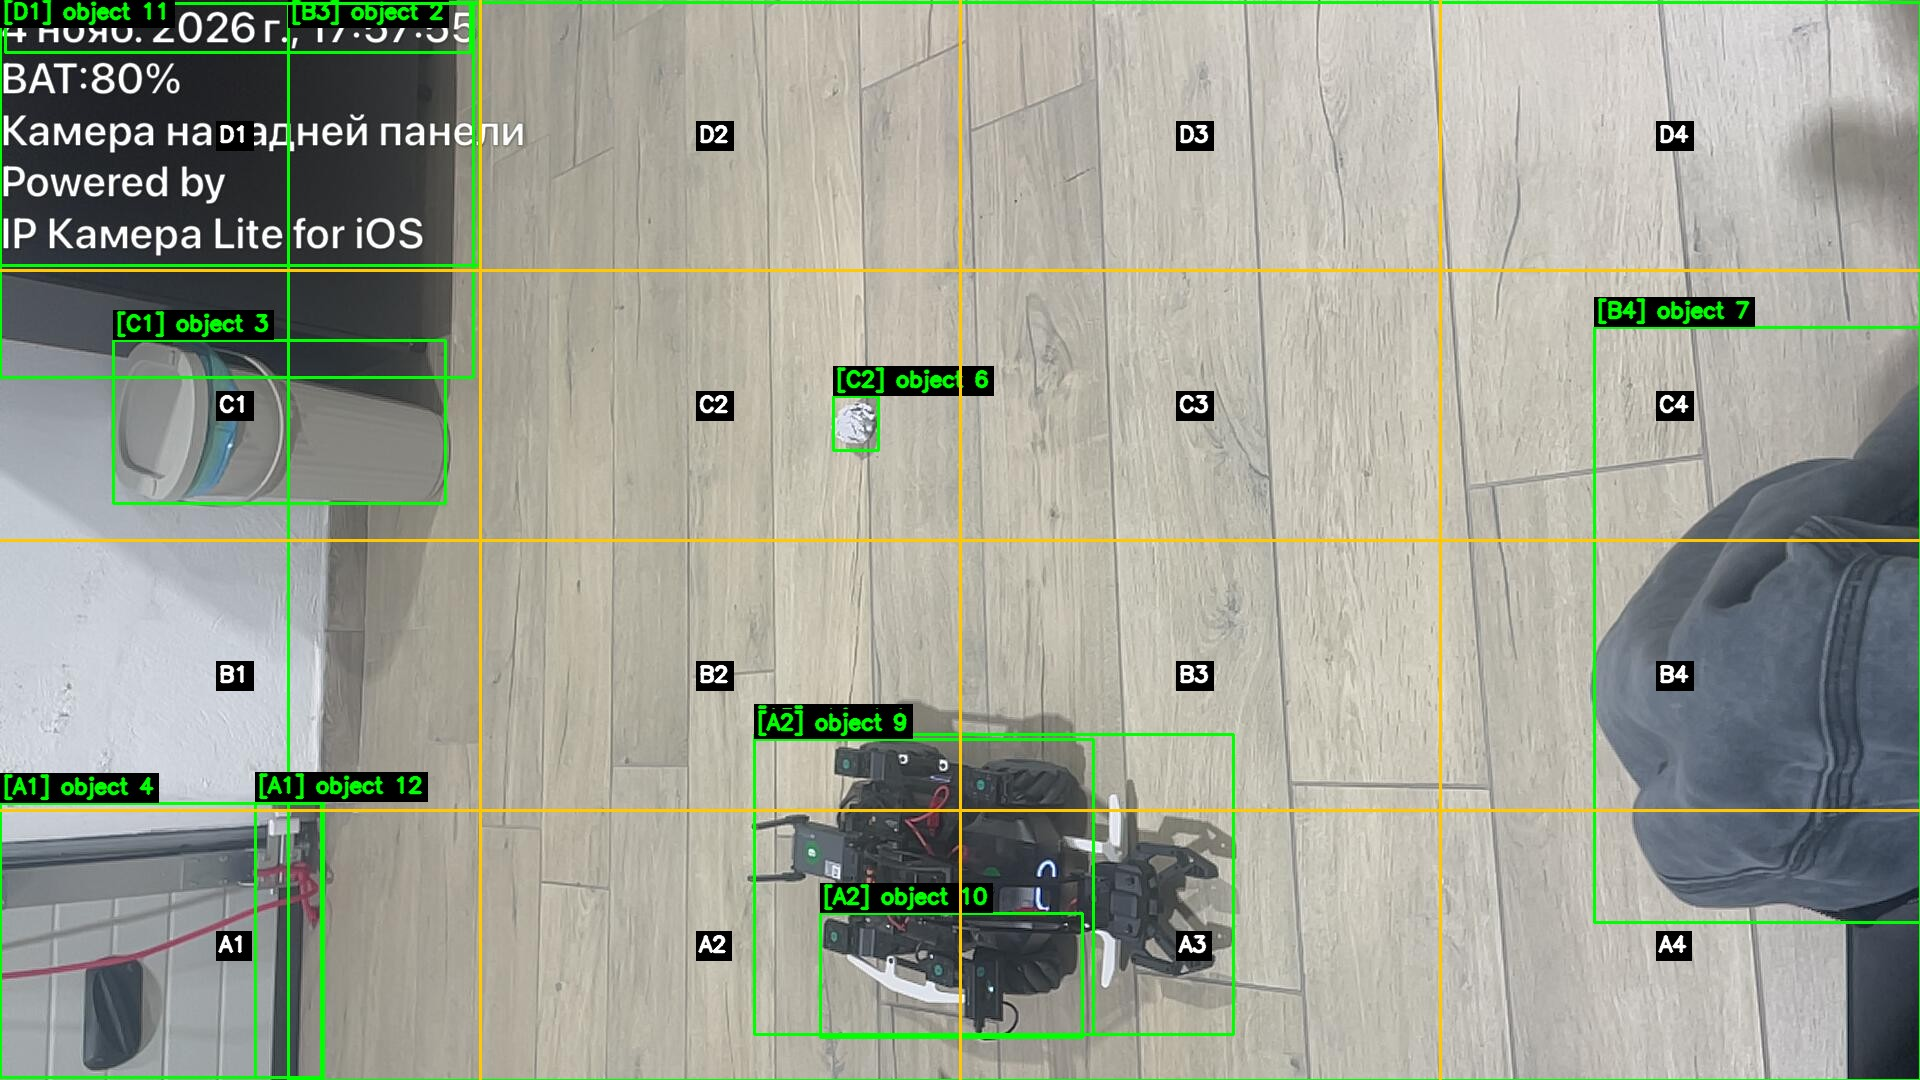
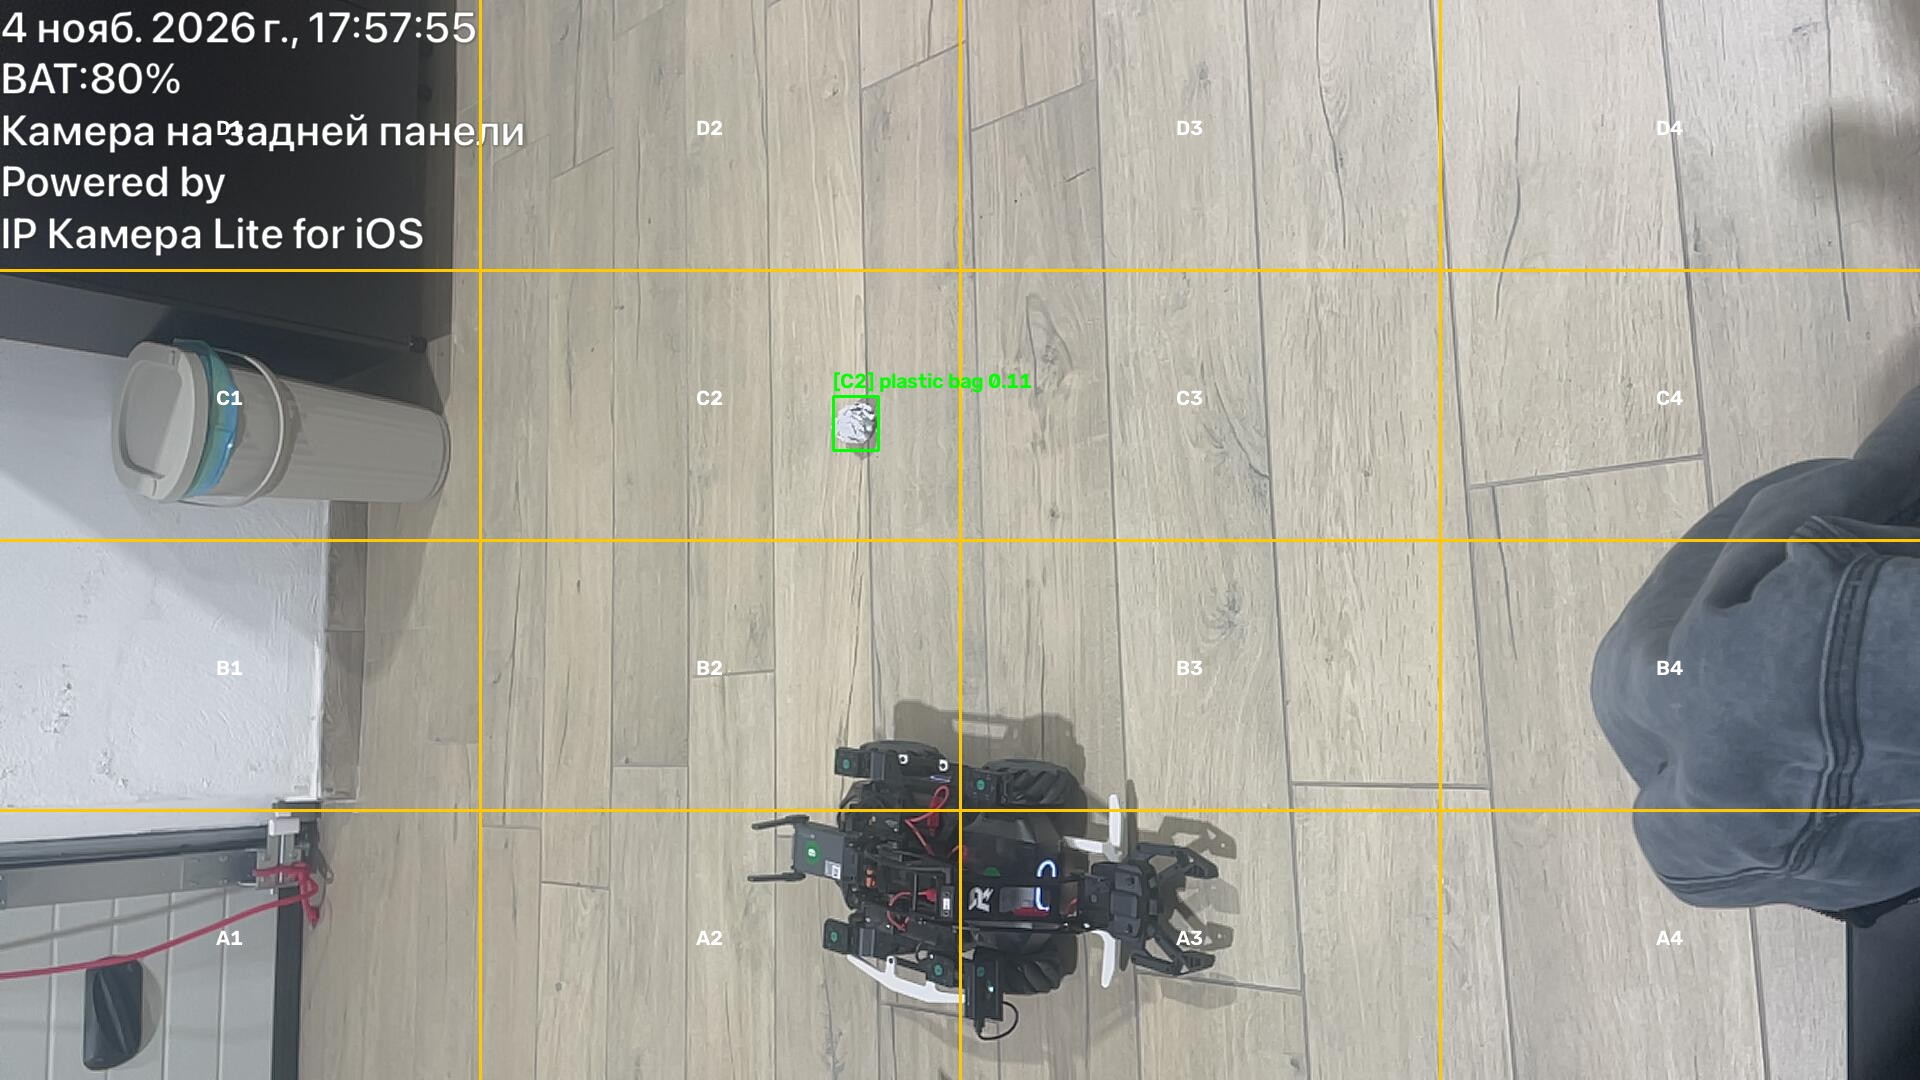
Show the fresh phone grid and reject a pixel on the frame edge.
The far edge is outside the 0.5 m demo grid, and the latest detection photo keeps the paper box in B3.

diff --git a/mapping/grid_mapper.py b/mapping/grid_mapper.py
@@ -162,7 +162,7 @@ def pixel_to_sector(cx: float, cy: float, img_width: int, img_height: int) -> st
         raise ValueError("img_width must be a positive integer")
     if type(img_height) is not int or img_height < 1:
         raise ValueError("img_height must be a positive integer")
-    if cx < 0 or cy < 0 or cx > img_width or cy > img_height:
+    if cx < 0 or cy < 0 or cx >= img_width or cy >= img_height:
         raise ValueError("pixel is outside the frame")
 
     column = _image_band(float(cx), img_width, GRID_COLUMNS) + 1
@@ -172,9 +172,9 @@ def pixel_to_sector(cx: float, cy: float, img_width: int, img_height: int) -> st
 
 
 def _image_band(position: float, size: int, count: int) -> int:
-    """Return the 0-based strip index, keeping the far edge inside the last strip."""
-    if position == size:
-        return count - 1
+    """Return the 0-based strip index. The far edge is outside the frame."""
+    if position < 0 or position >= size:
+        raise ValueError("pixel is outside the frame")
     index = int(position * count / size)
     if index < 0 or index >= count:
         raise ValueError("pixel is outside the frame")

diff --git a/mapping/test_mapper.py b/mapping/test_mapper.py
@@ -63,7 +63,7 @@ class PixelSectorTests(unittest.TestCase):
 
     def test_frame_corners_use_the_outer_cells(self) -> None:
         self.assertEqual(pixel_to_sector(0, 0, 1920, 1080), "D1")
-        self.assertEqual(pixel_to_sector(1920, 1080, 1920, 1080), "A4")
+        self.assertEqual(pixel_to_sector(1919, 1079, 1920, 1080), "A4")
         self.assertNotEqual(sector_to_coordinates("D1"), (0.0, 0.0))
 
     def test_cell_boundaries_belong_to_the_next_cell(self) -> None:
@@ -75,6 +75,8 @@ class PixelSectorTests(unittest.TestCase):
             pixel_to_sector(-1, 423, 1920, 1080)
         with self.assertRaises(ValueError):
             pixel_to_sector(855, 1081, 1920, 1080)
+        with self.assertRaises(ValueError):
+            pixel_to_sector(1920, 1080, 1920, 1080)
 
 
 def _detection(frame_index: int, sector: str | None, contact: list[float] | None = None) -> dict:
